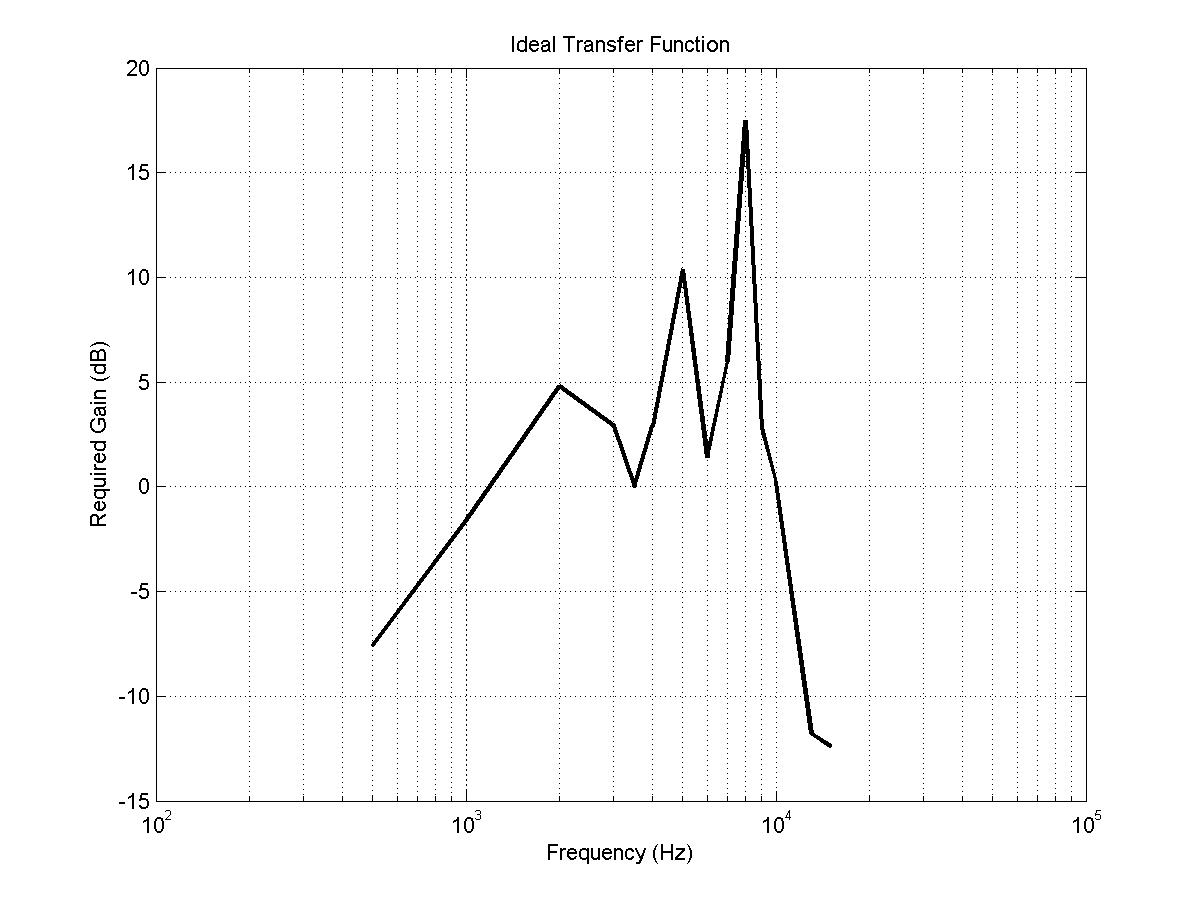
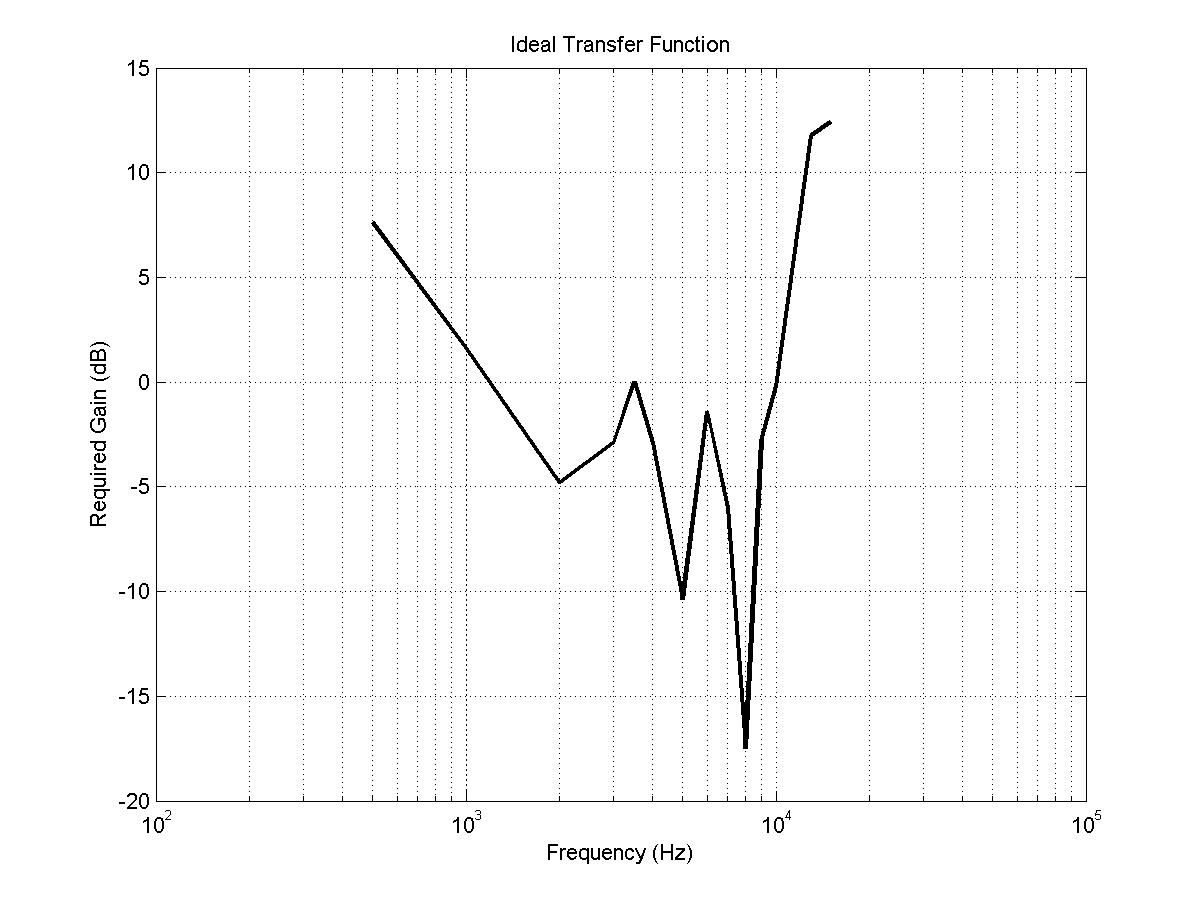
Fixed it so it computes tf gain as client - normal, not normal - client

diff --git a/Matlab/Get_Normal_TOH.m b/Matlab/Get_Normal_TOH.m
@@ -55,7 +55,7 @@ ylabel('Threshold of Hearing (dB)')
 saveas(f1, 'normal_TOH.jpg');
 
 %Save data
-delete('normal_TOH');
+delete('normal_TOH.xls');
 xlswrite('normal_TOH', normal_TOH);
 
 
